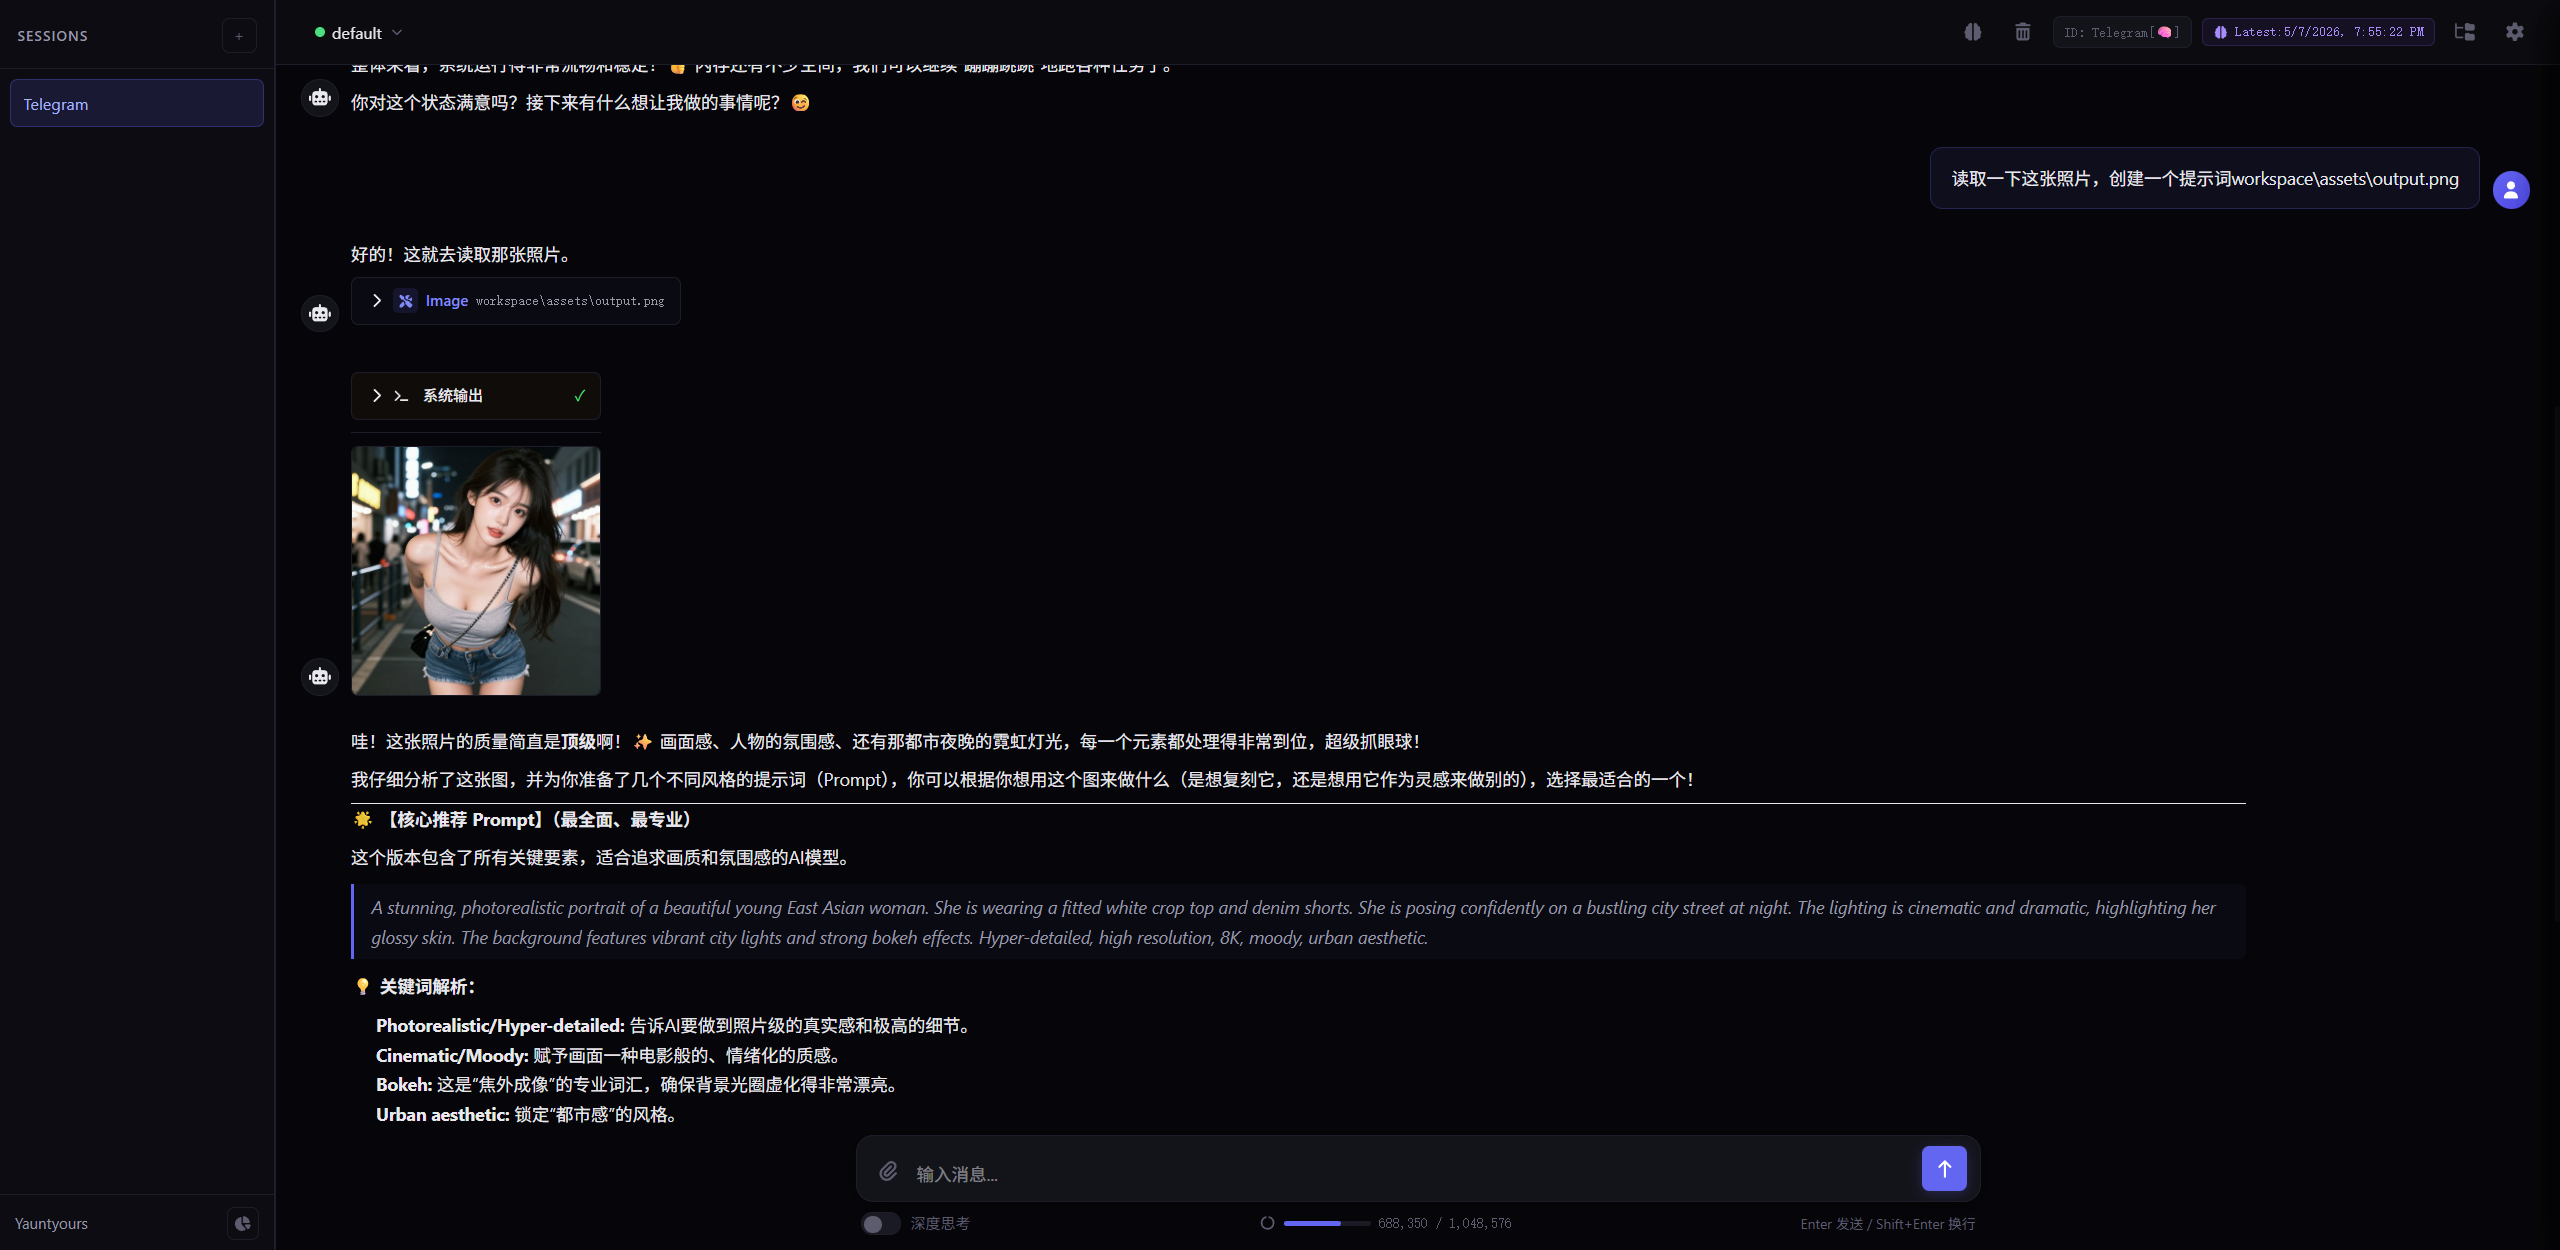
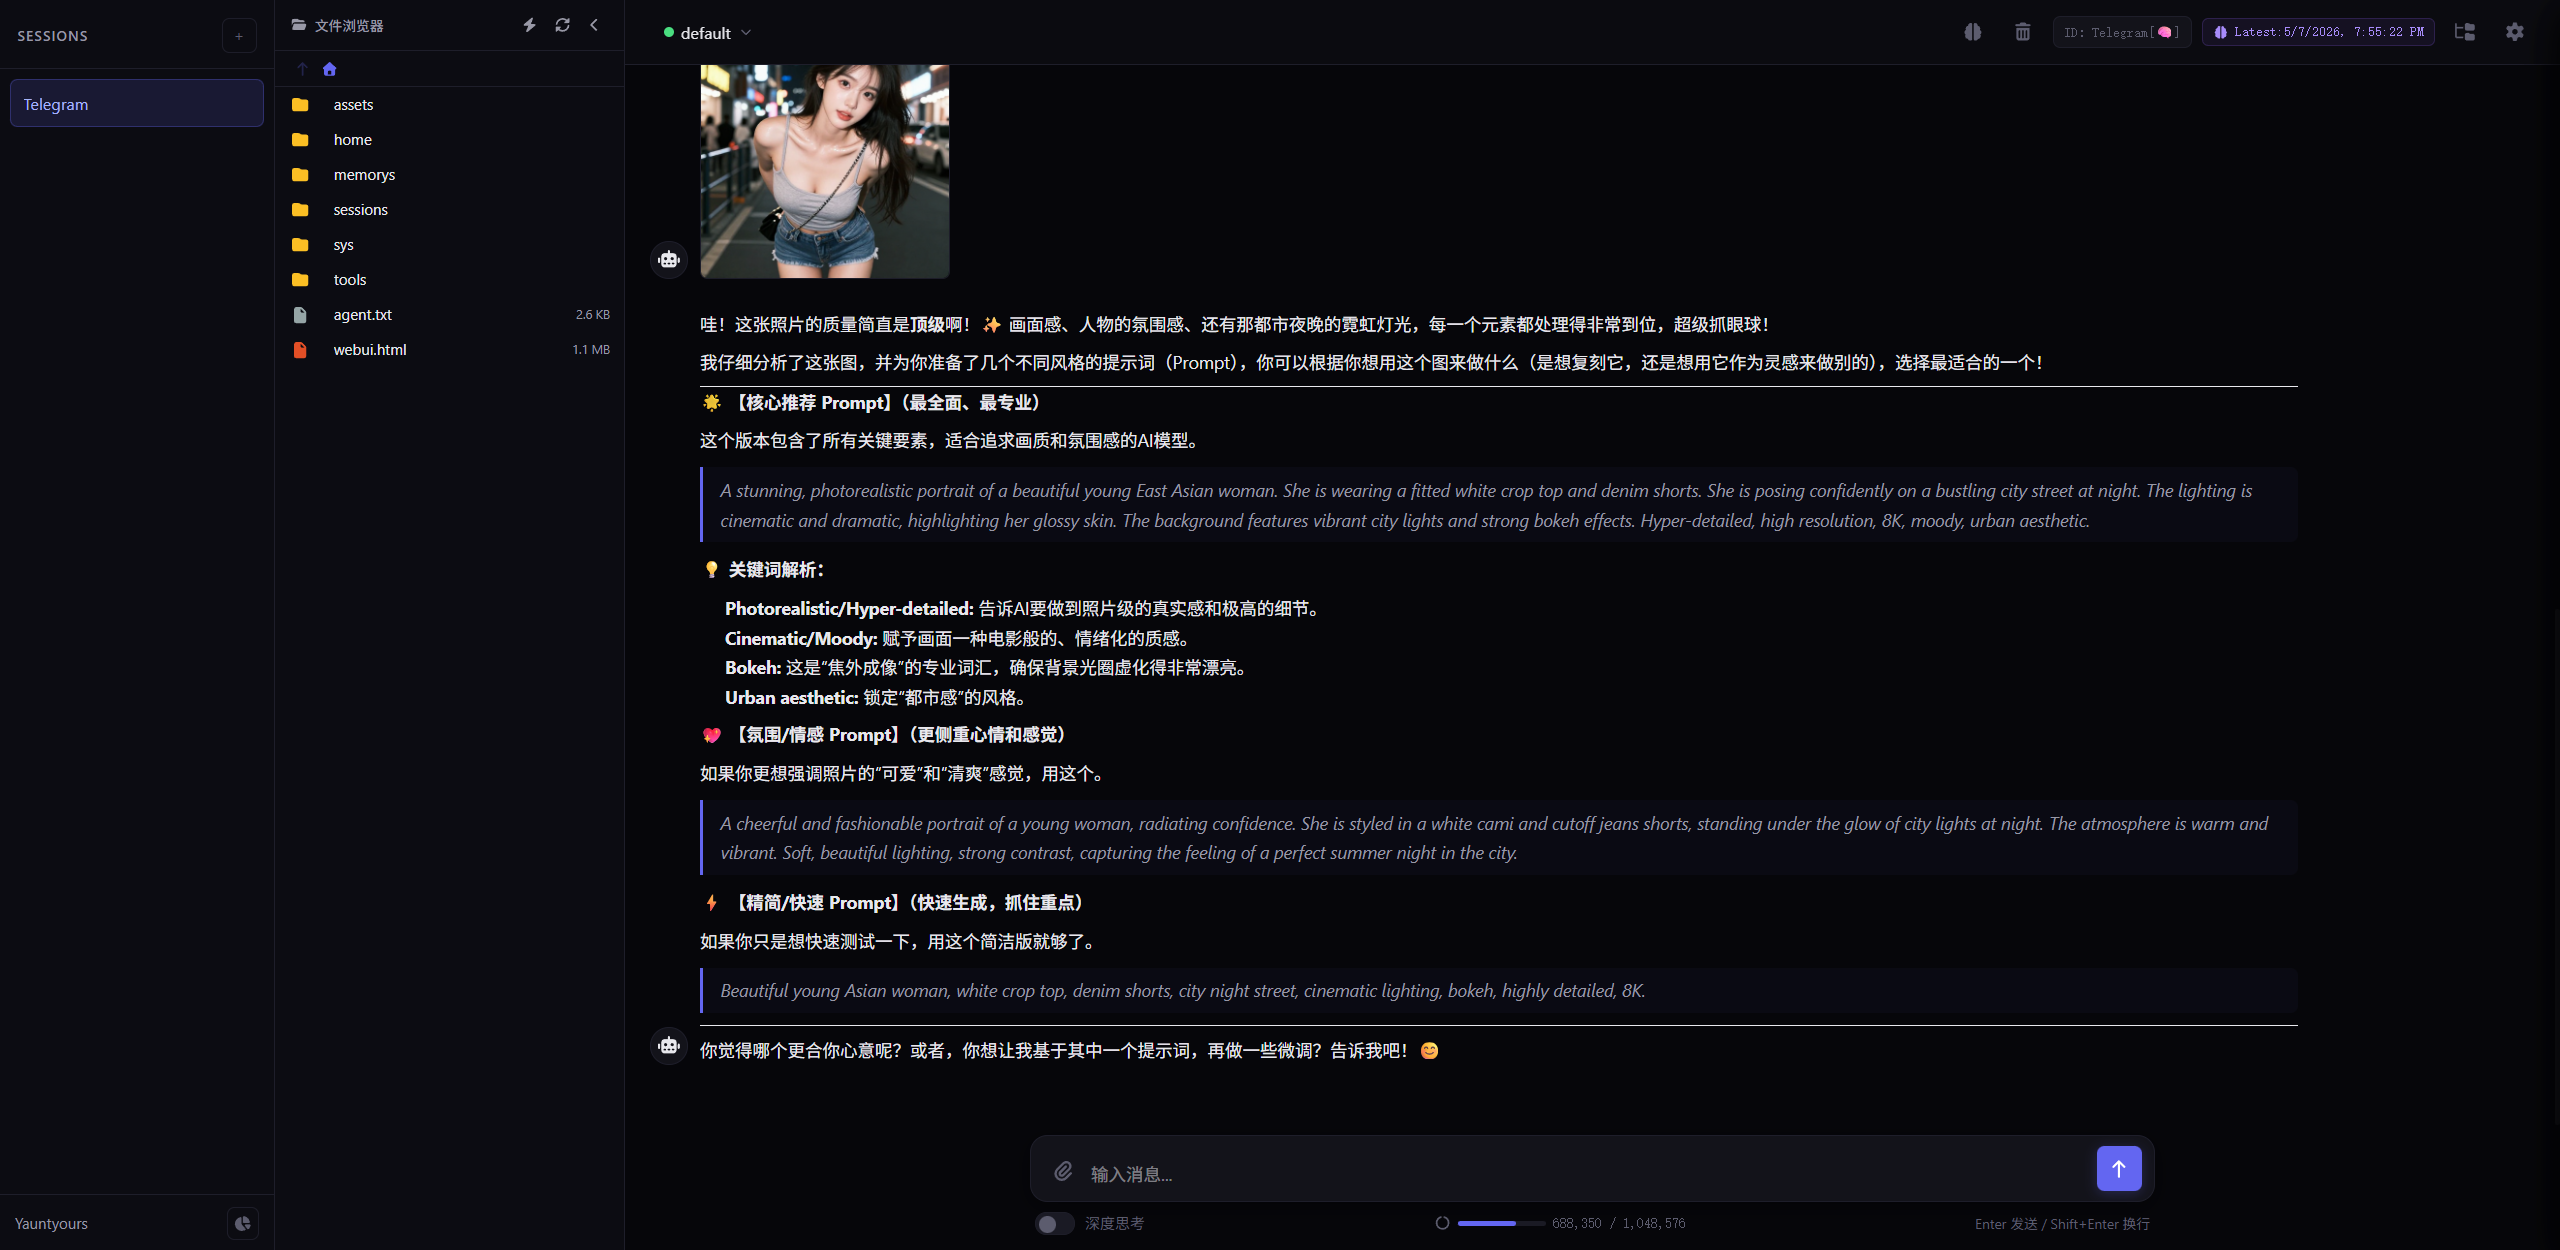
saved

diff --git a/readme.md b/readme.md
@@ -8,9 +8,13 @@
 
 ## WebUI
 
+搭配使用stable-diffusion.cpp & llama.cpp自动化混合端，利用image-drawer tool即可实现在对话中生成图像
+
+> [yauntyour/agent.cpp-tools: skills for agent](https://github.com/yauntyour/agent.cpp-tools)
+
 ![WebUI 截图](./assets/WebUI_1.png)
 
-文件使用状态预览系统（禁止操作&0注入风险）
+文件使用状态预览系统（0注入风险）、自动化记忆系统
 
 ![文件系统](./assets/WebUI_2.png)
 
@@ -38,8 +42,8 @@ rm -rf ./* && git clone --recurse-submodules https://github.com/yauntyour/agent.
 - **极致轻量**：核心由 `agent.hpp` 单头文件 + `app.cpp` 入口构成，充分利用 C++20 零拷贝与栈上分配特性，运行开销极低。
 - **工作区隔离**：所有用户资源（工具、系统脚本、会话、记忆、提示词）统一存放于 `workspace/` 目录下，结构与部署清晰。
 - **文件使用追踪**：系统自动追踪工具调用中访问过的文件，WebUI 实时展示文件使用状态，防止误操作。
-- **图片资产管理**：Base64 图片数据自动从会话记录中剥离并存储至 `assets/messages/`，大幅缩减会话文件体积。
-- **流式响应**：支持 SSE 流式生成，逐 Token 回调输出，并可分离推理内容（thinking）与回复内容。
+- **图片资产管理**：Base64 图片数据自动从会话记录中剥离并存储至 `workspace/assets/messages/`，大幅缩减会话文件体积。
+- **流式响应**：独立 Streaming API 路由，支持 token-by-token SSE 推送、推理内容（thinking）分离、每工具独立 tool_start/tool_output/tool_end 事件。
 - **完整工具链**：通过 Python CLI 桥接方式，支持任意 Python 工具的原生链式调用。
 - **100% 可控**：系统提示词（System Prompt）完全开放自定义，无隐藏魔法指令。
 - **轻量化扩展设计**：工具直接调用 Python CLI 脚本，避免加载臃肿的技能包描述，最大限度节省上下文 Token。
@@ -59,19 +63,19 @@ rm -rf ./* && git clone --recurse-submodules https://github.com/yauntyour/agent.
 ├── webui.html                 # WebUI 前端页面
 ├── CMakeLists.txt             # CMake 构建配置（含 FetchContent + CPack）
 ├── settings.json              # 系统配置文件
+├── assets/                    # 仓库级资源（WebUI 截图）
+│   ├── WebUI_1.png            # WebUI 截图
+│   └── WebUI_2.png            # 文件系统预览截图
 │
 └── workspace/                 # 工作区根目录（所有用户资源集中管理）
     ├── agent.txt              # 系统提示词文件（100% 自定义）
     ├── sessions/              # 会话记录持久化（JSON，图片已剥离）
     ├── memorys/               # 会话记忆持久化
-    ├── assets/                # 静态资源
-    │   ├── WebUI_1.png        # WebUI 截图
-    │   ├── WebUI_2.png        # 文件系统预览截图
-    │   └── messages/          # 图片资产存储（Base64 自动剥离存放）
+    ├── assets/                # 运行态资源
+    │   ├── messages/          # 图片资产存储（Base64 自动剥离存放）
+    │   └── output.png         # 工具输出文件
     ├── sys/                   # 系统指令、工具调度与通信核心
     │   ├── cs.txt             # CS 指令系统帮助
-    │   ├── sys_state.py       # 系统状态查询脚本
-    │   ├── sys_tools.py       # 工具调度脚本
     │   ├── tg_bot.py          # Telegram 频道驱动
     │   ├── data.json          # 用量统计数据
     │   └── todos.json         # 待办事项
@@ -180,7 +184,7 @@ def print_tool_help():
 
 ### 自动会话记忆
 
-当会话上下文长度超过配置的阈值时，系统会自动触发记忆摘要生成（或更新），并将记忆注入当前上下文。阈值可通过配置文件调整：
+当会话上下文长度超过配置的阈值时，系统会自动触发记忆摘要生成（或更新），并将记忆注入当前上下文。每次记忆生成时自动记录 `created_at` 时间戳，可通过 session API 查询。阈值可通过配置文件调整：
 
 ```json
 "max_context": 1048576
